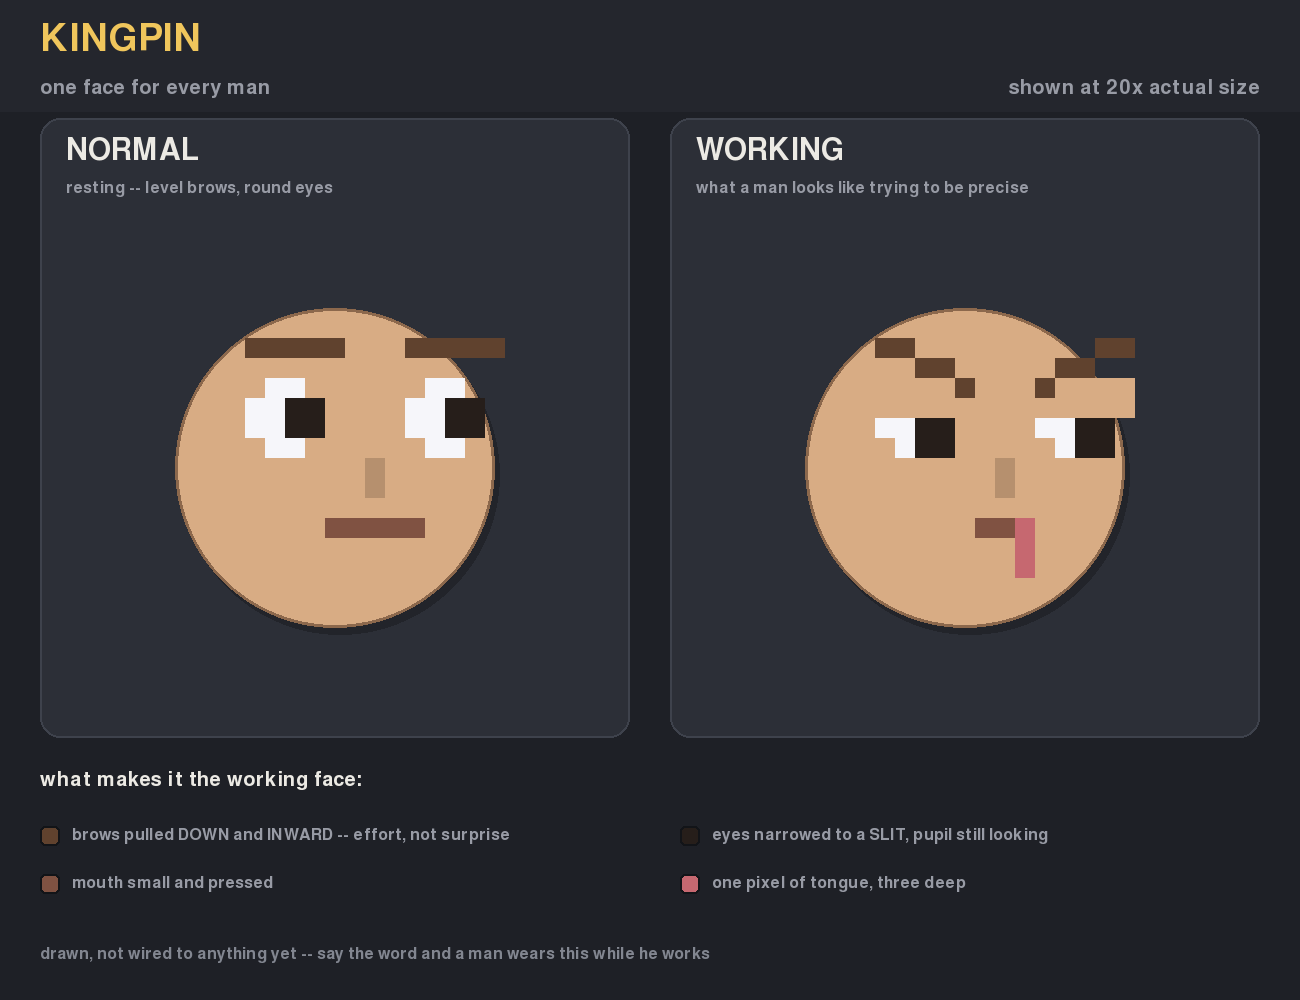
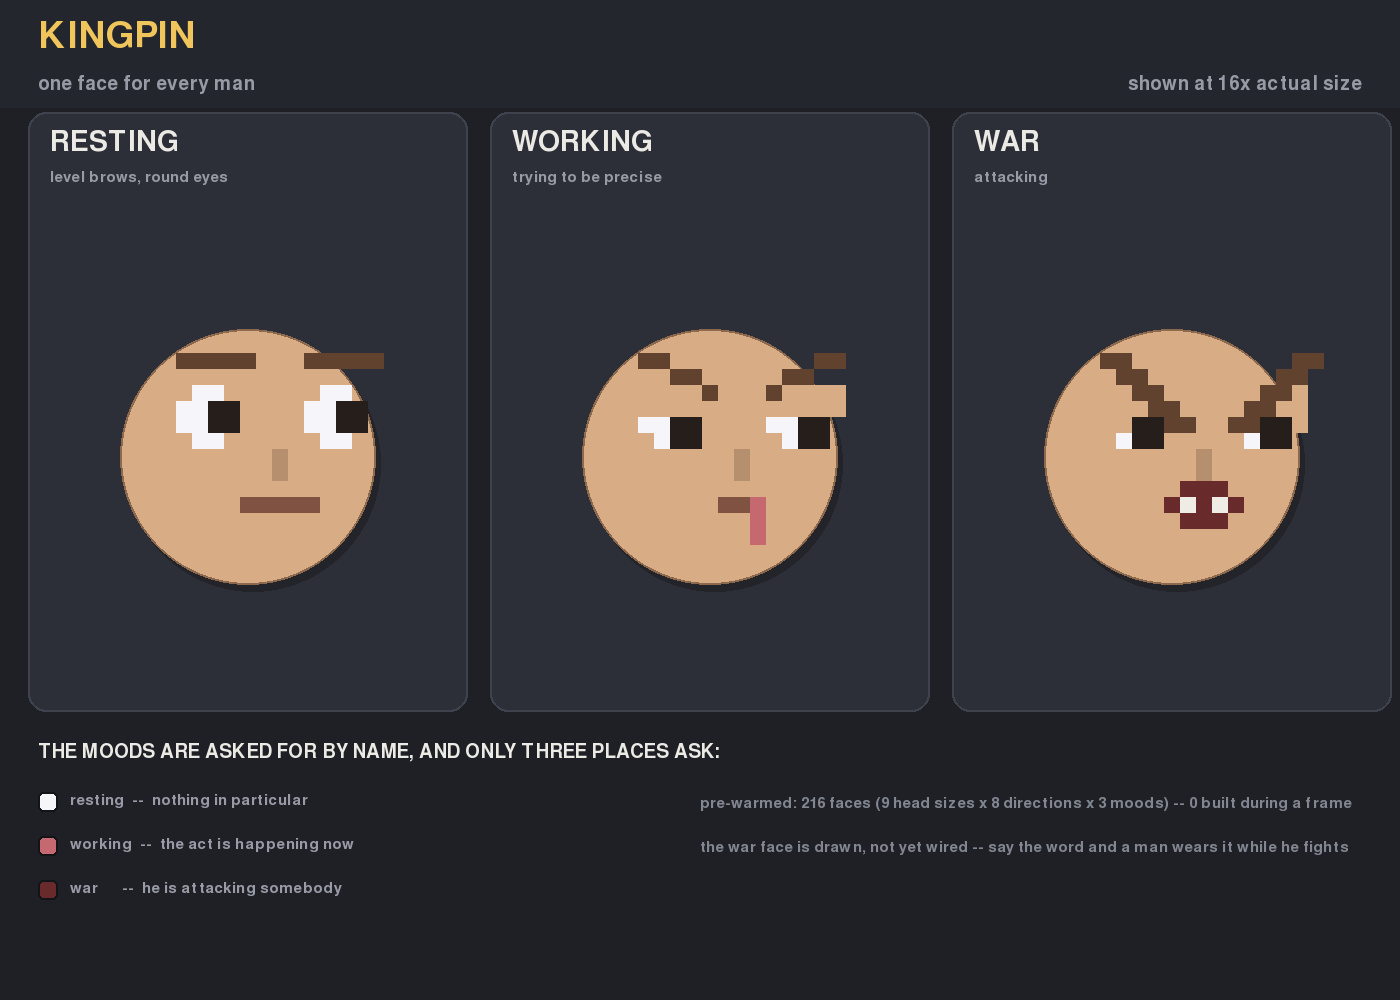
face: the war face
A third mood. The brows are driven down STEEPLY and drawn thick, so the inner
ends come right down between the eyes and nearly meet -- an angry V, where
the working face only pulls them gently in. The lid presses the eye to a
harder slit, and the mouth is OPEN: an ellipse dark inside with two teeth,
because a flat line is a scowl and a mouth that has come open is a man making
a noise.

    .......--..........--..
    ........--........--...
    .......  -- ...  -- ...
    .......   --... --  ...
    .......  @@--..--@@ ...
    ........O@@.....O@@....
    .............|.........
    ...........mwmwm.......
    ............mmm........

Two things fixed on the way: the teeth were unevenly placed (one at the far
left edge, one just right of centre -- a snaggletooth, not a shout), and the
new mood was NOT in warm()'s list, so the first man to attack would have paid
twelve draw calls inside a frame. 216 faces are pre-warmed now: nine head
sizes, eight directions, three moods, none of them built during play.

diff --git a/face.py b/face.py
@@ -29,6 +29,8 @@ NOSE = (182, 144, 110)   # LIGHTER than the head's outline (150,112,82),
                             # which it was the same colour as -- an invisible nose
 MOUTH = (128, 82, 66)
 TONGUE = (198, 104, 112)     # the working face's whole point
+MAW = (104, 42, 42)         # an open, shouting mouth -- the war face
+TOOTH = (238, 236, 228)     # two of them, at the top of it
 LID = None                  # filled with the skin at draw time
 
 # Where the features sit, as a fraction of the head's radius.
@@ -75,10 +77,19 @@ def _render(screen, hx: float, hy: float, r: int, fx: float, fy: float,
             mood: str = "normal", skin=(216, 172, 132)) -> None:
     """The face itself, into any surface, centred on (hx, hy).
 
+    THREE MOODS, ONE GEOMETRY.
+
+      normal   level brows, round eyes, a flat mouth
+      focus    brows pulled down and IN, eyes narrowed to a slit with the
+               pupil still in it, a small pressed mouth, the tongue out --
+               a man trying to be precise
+      angry    brows driven down STEEPLY and drawn thick, the eye pressed to a
+               harder slit, and the mouth actually OPEN, because a flat line
+               is a scowl and a mouth that has come open is a man shouting
+
     KEPT DELIBERATELY BOLD. At a head of radius eight an eye is four pixels
     across, and a ring around a four-pixel white reads as a pair of GLASSES --
-    which is what the first version looked like. So: a white disc, a dark
-    pupil in it, and nothing else around it.
+    which is what the first version looked like.
     """
     ex = hx + fx * r * EYE_LOOK
     ey = hy - r * EYE_UP + fy * r * EYE_LOOK
@@ -87,37 +98,56 @@ def _render(screen, hx: float, hy: float, r: int, fx: float, fy: float,
     pr = max(1, int(round(r * PUPIL_R)))
     ix, iy = int(round(ex)), int(round(ey))
     focusing = (mood == "focus")
+    angry = (mood == "angry")
 
-    # THE EYES.
-    lid = max(1, int(round(wr * 1.1))) if focusing else 0
+    # THE EYES, AND HOW FAR THE LID COMES DOWN.
+    if angry:
+        lid = max(1, int(round(wr * 1.45)))     # the brow is pressing it shut
+    elif focusing:
+        lid = max(1, int(round(wr * 1.1)))
+    else:
+        lid = 0
     for sgn in (-1, 1):
         cx = ix + sgn * sep
         pygame.draw.circle(screen, WHITE, (cx, iy), wr)
-        if focusing:
+        if lid:
             # A SLIT, AND THEN THE PUPIL ON TOP OF IT. The lid comes FIRST so
             # that it cuts the white down to a band, and the pupil is drawn
             # after so the man is still looking at something -- drawn the
             # other way round the slit was blank and the face went dead.
             # Sized to the EYE, not the head.
-            pygame.draw.rect(screen, skin,
-                             (cx - wr, iy - wr, wr * 2 + 1, lid))
-        # AND THE PUPIL SITS IN THE MIDDLE OF WHAT IS LEFT. Without the push
-        # down it landed on the lid, with the white underneath it, and the man
-        # looked like he was rolling his eyes upward at the ceiling.
+            pygame.draw.rect(screen, skin, (cx - wr, iy - wr, wr * 2 + 1, lid))
+        # AND THE PUPIL SITS IN THE MIDDLE OF WHAT IS LEFT.
         pygame.draw.circle(screen, EYE,
                            (cx + int(round(fx * wr * 0.45)),
                             iy + lid // 2 + int(round(fy * wr * 0.45))), pr)
 
-    # THE BROWS. Level, or pulled down and in for the working face.
-    by = int(round(iy - wr - r * (0.10 if focusing else 0.20)))
-    bw = max(1, int(round(r * 0.20)))
-    tw = max(1, r // 6)
-    for sgn in (-1, 1):
-        cx = ix + sgn * sep
-        if focusing:
+    # THE BROWS.
+    if angry:
+        # A HARD STEEP V, AND THICK. The inner end comes down almost level with
+        # the eye and the outer end rides high; the stroke is two or three
+        # pixels because at this size a hairline reads as a smudge, not a brow.
+        by = int(round(iy - wr - r * 0.04))
+        bw = max(1, int(round(r * 0.26)))
+        tw = max(2, r // 5)
+        for sgn in (-1, 1):
+            cx = ix + sgn * sep
             pygame.draw.line(screen, BROW, (cx + sgn * bw, by - tw),
                              (cx - sgn * bw, by + tw), tw)
-        else:
+    elif focusing:
+        by = int(round(iy - wr - r * 0.10))
+        bw = max(1, int(round(r * 0.20)))
+        tw = max(1, r // 6)
+        for sgn in (-1, 1):
+            cx = ix + sgn * sep
+            pygame.draw.line(screen, BROW, (cx + sgn * bw, by - tw),
+                             (cx - sgn * bw, by + tw), tw)
+    else:
+        by = int(round(iy - wr - r * 0.20))
+        bw = max(1, int(round(r * 0.20)))
+        tw = max(1, r // 6)
+        for sgn in (-1, 1):
+            cx = ix + sgn * sep
             pygame.draw.line(screen, BROW, (cx - bw, by), (cx + bw, by), tw)
 
     # THE NOSE.
@@ -125,32 +155,39 @@ def _render(screen, hx: float, hy: float, r: int, fx: float, fy: float,
         pygame.draw.line(screen, NOSE, (ix, iy + wr),
                          (ix, int(round(hy + r * NOSE_DOWN))), 1)
 
-    # THE MOUTH.
     my = int(round(hy + r * MOUTH_DOWN))
+
+    if angry:
+        # THE MOUTH IS OPEN. Not a line, not a grimace -- an ellipse, dark
+        # inside, with two teeth at the top of it. It is the difference
+        # between a man who is cross and a man who is coming for you.
+        mw = max(2, int(round(r * 0.30)))
+        mh = max(1, int(round(r * 0.16)))
+        pygame.draw.ellipse(screen, MAW,
+                            (ix - mw, my - mh, mw * 2 + 1, mh * 2 + 1))
+        if r >= 6:
+            # TWO TEETH, EVENLY EITHER SIDE OF THE MIDDLE. The first cut put
+            # one at the far left edge of the mouth and one just right of
+            # centre, which is a snaggletooth, not a shout.
+            tw2 = max(1, mw // 2)
+            ty = my - mh + 1
+            pygame.draw.rect(screen, TOOTH, (ix - tw2, ty, tw2, 1))
+            pygame.draw.rect(screen, TOOTH, (ix + 1, ty, tw2, 1))
+        return
+
+    # THE MOUTH.
     hw = max(1, int(round(r * (0.16 if focusing else 0.26))))
     pygame.draw.line(screen, MOUTH, (ix - hw, my), (ix + hw, my), max(1, r // 8))
 
-    # AND THE TONGUE, OUT OF THE CORNER OF IT.
+    # AND THE TONGUE, OUT OF THE CORNER OF IT -- one pixel across, three deep.
     if focusing:
-        # A SIMPLE V, HANGING FROM THE MOUTH LINE DOWNWARD. It was a disc
-        # centred a pixel BELOW the mouth, which put its top edge a pixel
-        # ABOVE the mouth -- so the tongue looked like it grew out of the
-        # man's upper lip. The flat top of the V now sits exactly on the
-        # mouth line and only the point goes below it.
-        # A NUB. A man concentrating shows the tip of his tongue, not a flap:
-        # three pixels wide at the mouth line, tapering to one, two deep.
-        # Wider than that and it stops reading as a man and starts reading as
-        # a lizard. It hangs from just outside the corner so the mouth, which
-        # is the same width, is still a mouth.
-        # ONE PIXEL ACROSS, THREE DEEP. A thin line hanging off the corner of
-        # the mouth, and that is all it is -- barely there, which is the
-        # point. Scaled to the head so it grows with the man.
         depth = max(3, r * 3 // 8)
         x0 = ix + hw
         pygame.draw.line(screen, TONGUE, (x0, my), (x0, my + depth - 1), 1)
 
 
-def warm(radii=range(4, 13), dirs=DIRS, moods=("normal", "focus")) -> int:
+def warm(radii=range(4, 13), dirs=DIRS,
+         moods=("normal", "focus", "angry")) -> int:
     """Build every face the game can ask for BEFORE the first frame.
 
     A cache miss in the middle of a frame is twelve draw calls where the frame
